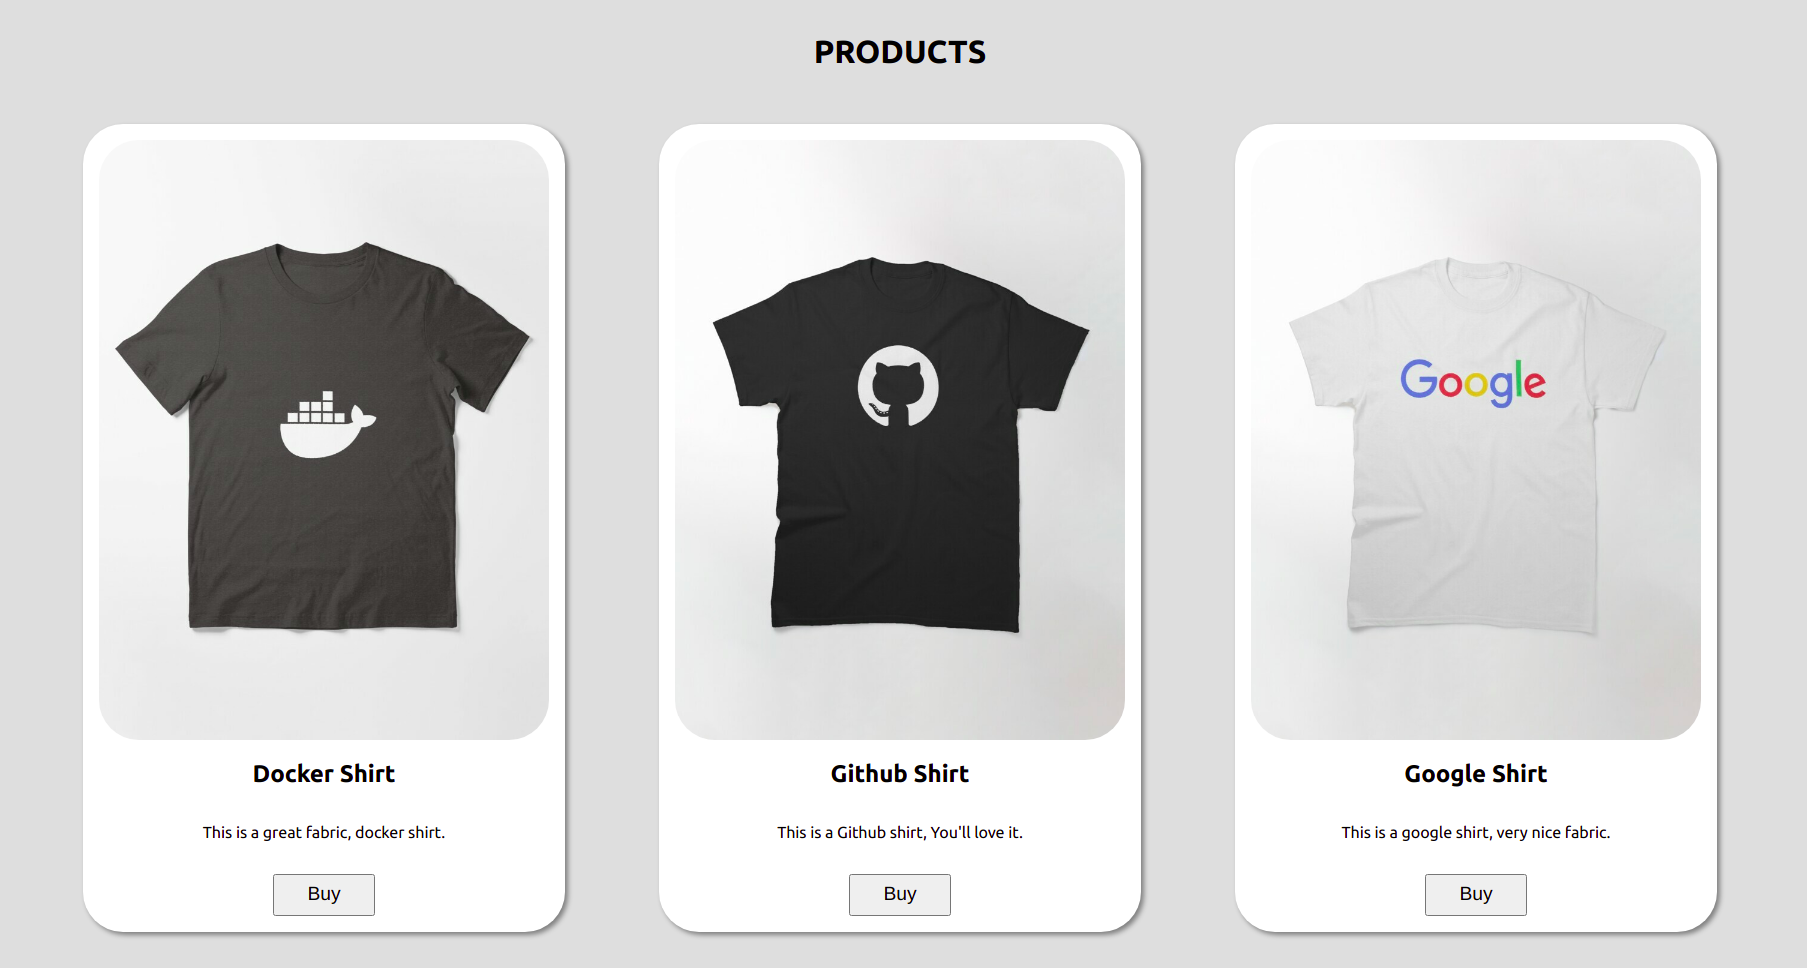
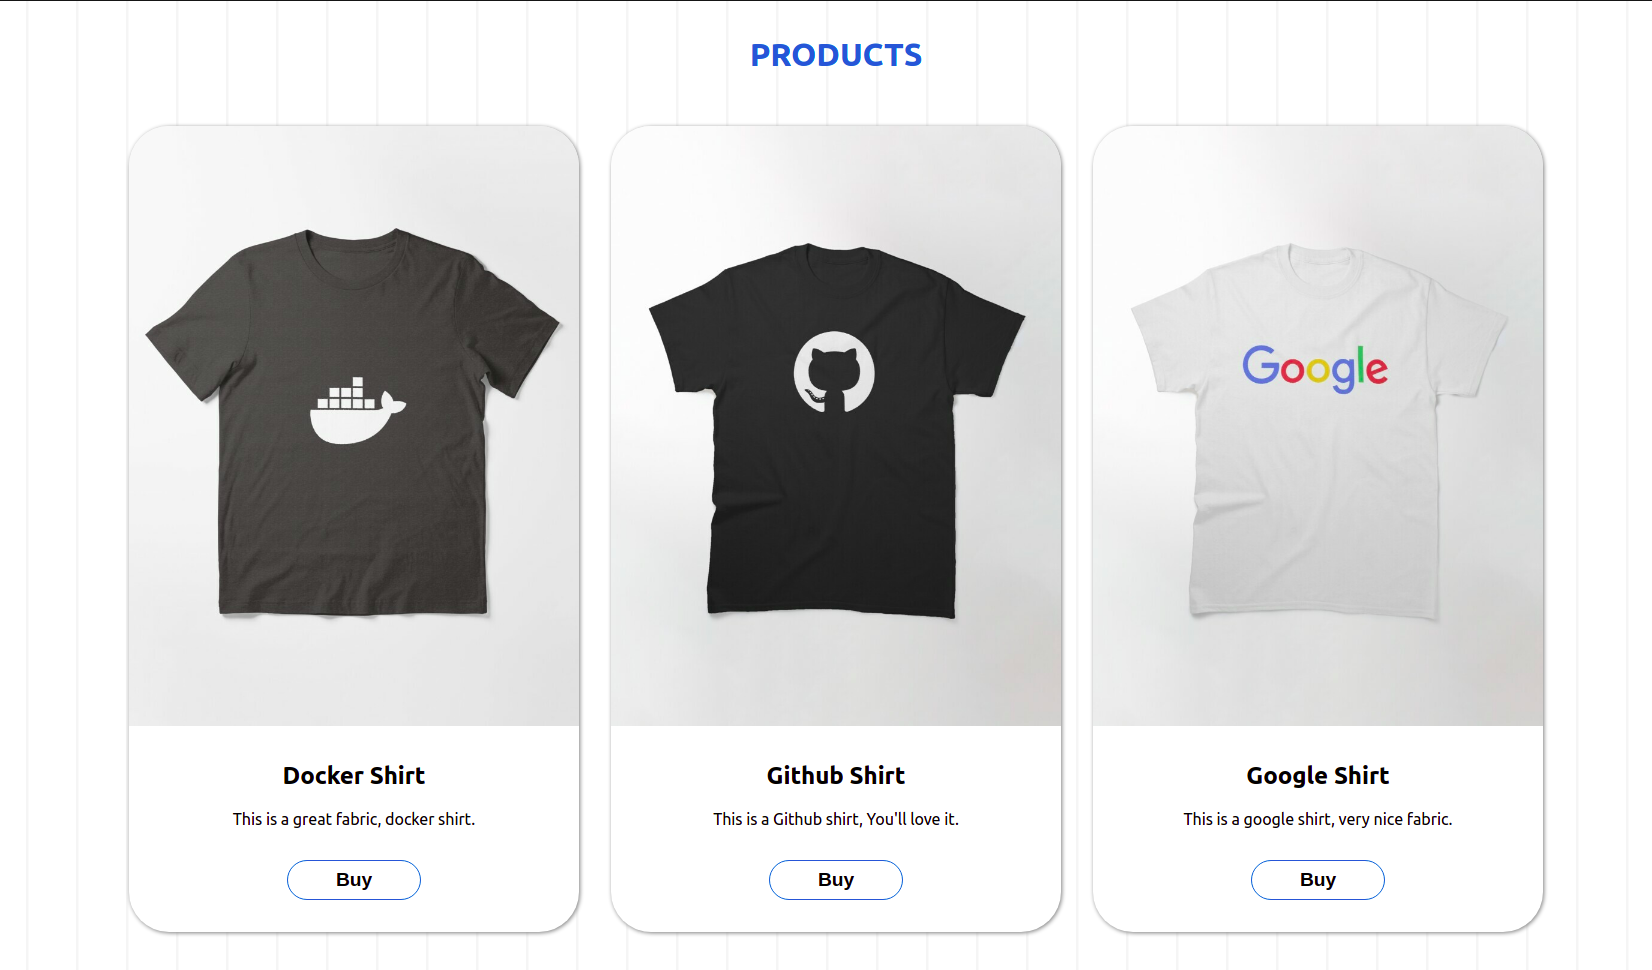
added title, updated styling

diff --git a/src/styles/styles.css b/src/styles/styles.css
@@ -4,7 +4,7 @@ body {
   padding: 0;
   font-family: -apple-system, BlinkMacSystemFont, "Segoe UI", Roboto, Oxygen,
     Ubuntu, Cantarell, "Open Sans", "Helvetica Neue", sans-serif;
-  background: #c1c1c185;
+  background-image: url("../images/background.svg");
 }
 
 .main-container {
@@ -17,6 +17,7 @@ body {
 
 .main-container > h1 {
   text-transform: uppercase;
+  color: #0074d4;
 }
 
 .products-container {
@@ -24,6 +25,8 @@ body {
   padding: 1rem;
   min-height: 300px;
   display: flex;
+  justify-content: center;
+  align-items: center;
 }
 
 .product-item {
@@ -34,28 +37,44 @@ body {
   text-align: center;
   min-width: 200px;
   max-width: 500px;
-  padding: 1rem;
-  margin: 1rem auto;
+  margin: 1rem;
   background: white;
-  box-shadow: 3px 3px 5px gray;
+  box-shadow: 1px 1px 4px gray;
   border-radius: 40px;
 }
 
 .product-image {
   width: 100%;
   max-width: 450px;
-  border-radius: 40px;
+  border-radius: 40px 40px 0px 00px;
 }
 
 .error {
   color: red;
 }
 
+.content {
+  width: 100%;
+  padding: 1rem;
+}
+
 .button {
-  padding: 0.5rem 2rem;
+  padding: 0.5rem 3rem;
   cursor: pointer;
   font-size: 1.2rem;
-  margin-top: 1rem;
+  margin: 1rem 0;
+  border: 1px solid #0074d4;
+  outline: none;
+  font-weight: bold;
+  background: transparent;
+  color: black;
+  transition: all 0.5s ease;
+  border-radius: 40px;
+}
+
+.button:hover {
+  background: #0074d4;
+  color: white;
 }
 
 .link {

diff --git a/src/components/Product/index.js b/src/components/Product/index.js
@@ -9,16 +9,18 @@ const Product = ({ nodeId, product, loading, handleClick }) => {
         src={product.images[0]}
         alt={product.name}
       />
-      <h2>{product.name}</h2>
-      <p>{product.description}</p>
-      <button
-        className="button"
-        type="button"
-        disabled={loading}
-        onClick={event => handleClick(event, nodeId)}
-      >
-        Buy
-      </button>
+      <div className="content">
+        <h2>{product.name}</h2>
+        <p>{product.description}</p>
+        <button
+          className="button"
+          type="button"
+          disabled={loading}
+          onClick={event => handleClick(event, nodeId)}
+        >
+          {loading ? "..." : "Buy"}
+        </button>
+      </div>
     </div>
   )
 }

diff --git a/src/pages/index.js b/src/pages/index.js
@@ -6,16 +6,22 @@ import "./../styles/styles.css"
 // Link
 import { Link } from "gatsby"
 
+// Helmet
+import { Helmet } from "react-helmet"
+
 // Index
 const IndexPage = () => {
   // Return
   return (
-    <div className="main-container">
-      <h1>Homepage</h1>
-      <Link to="/products" className="link">
-        See Products
-      </Link>
-    </div>
+    <>
+      <Helmet title="Strapi Gatsby Tutorial" />
+      <div className="main-container">
+        <h1>Gatsby Stripe Tutorial</h1>
+        <Link to="/products" className="link">
+          See Products
+        </Link>
+      </div>
+    </>
   )
 }
 

diff --git a/src/pages/products.js b/src/pages/products.js
@@ -4,6 +4,9 @@ import React from "react"
 // Component
 import Products from "./../components/Products"
 
+// Helmet
+import { Helmet } from "react-helmet"
+
 // Index
 const IndexPage = () => {
   const data = useStaticQuery(graphql`
@@ -25,7 +28,12 @@ const IndexPage = () => {
   `)
 
   // Return
-  return <Products data={data} />
+  return (
+    <>
+      <Helmet title="Strapi Gatsby Tutorial" />
+      <Products data={data} />
+    </>
+  )
 }
 
 export default IndexPage

diff --git a/src/pages/404.js b/src/pages/404.js
@@ -1,10 +1,16 @@
 import * as React from "react"
 
+// Helmet
+import { Helmet } from "react-helmet"
+
 const NotFoundPage = () => (
-  <div>
-    <h1>404: Not Found</h1>
-    <p>You just hit a route that doesn&#39;t exist... the sadness.</p>
-  </div>
+  <>
+    <Helmet title="Strapi Gatsby Tutorial" />
+    <div>
+      <h1>404: Not Found</h1>
+      <p>You just hit a route that doesn&#39;t exist... the sadness.</p>
+    </div>
+  </>
 )
 
 export default NotFoundPage

diff --git a/src/pages/thankyou.js b/src/pages/thankyou.js
@@ -1,10 +1,16 @@
 import React from "react"
 
+// Helmet
+import { Helmet } from "react-helmet"
+
 const thankyou = () => {
   return (
-    <div>
-      <h2>Thankyou for your purchase</h2>
-    </div>
+    <>
+      <Helmet title="Strapi Gatsby Tutorial" />
+      <div>
+        <h2>Thankyou for your purchase</h2>
+      </div>
+    </>
   )
 }
 
